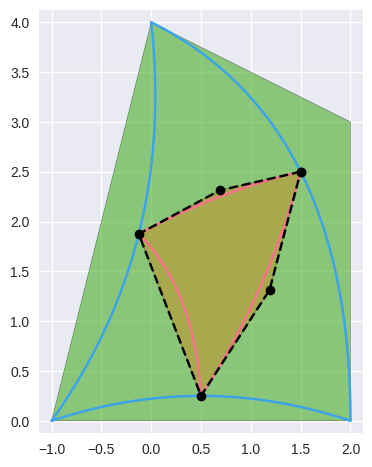
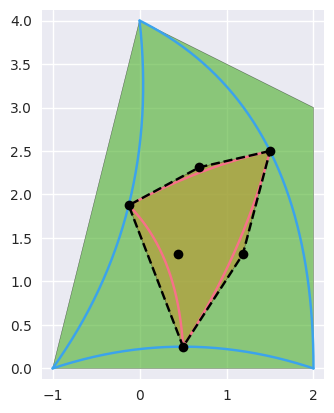
General docs / config maintenance.
Most of the changes occurred when I was reviewing the rendered
docs for Surface and Curve (while editing `paper.md`).

Among the changes:

- Setting a `dev` release in `setup.py`
- Updating `surface_subdivide2.png` to include all 6 control points
  rather than just the 5 that determine the control polygon
- Updating `make_surface_surface_images.py` to use the newer
  attribute name from `SurfaceIntersectionsInfo`
- Using `surface(1|2)` aliases in `test_surface_surface.py`
- Adding spaces in "to / from" (vs. "to/from")
- Adding a note about how our data layout for Surface control
  points can be converted from an index triple to the
  linear index

diff --git a/src/bezier/surface.py b/src/bezier/surface.py
@@ -137,6 +137,16 @@ class Surface(_base.Base):
 
        and so on.
 
+       The index formula
+
+       .. math::
+
+          j + \frac{k}{2} \left(2 (i + j) + k + 3\right)
+
+       can be used to map a triple :math:`(i, j, k)` onto the
+       corresponding linear index, but it is not particularly insightful
+       or useful.
+
     .. image:: ../images/surface_constructor.png
        :align: center
 
@@ -823,7 +833,7 @@ class Surface(_base.Base):
         .. image:: ../images/surface_subdivide1.png
            :align: center
 
-        Then the surface is re-parameterized via the map to/from the
+        Then the surface is re-parameterized via the map to / from the
         given sub-triangles and the unit triangle.
 
         For example, when a degree two surface is subdivided:

diff --git a/docs/make_images.py b/docs/make_images.py
@@ -531,7 +531,13 @@ def surface_subdivide2(surface, sub_surface_b):
 
     # Add the control points polygon for the sub-surface.
     nodes = sub_surface_b._nodes[(0, 1, 2, 5, 3, 0), :]
-    add_patch(ax, nodes, colors[1])
+    add_patch(ax, nodes, colors[1], with_nodes=False)
+
+    # Plot **all** the nodes.
+    sub_nodes = sub_surface_b._nodes
+    ax.plot(sub_nodes[:, 0], sub_nodes[:, 1], color='black',
+            linestyle='None', marker='o')
+
     # Take those same points and add the boundary.
     ax.plot(nodes[:, 0], nodes[:, 1],
             color='black', linestyle='dashed')

diff --git a/functional_tests/test_surface_surface.py b/functional_tests/test_surface_surface.py
@@ -197,8 +197,8 @@ def test_intersect(strategy, intersection_info):
     else:
         context = runtime_utils.no_op_manager()
 
-    surface1 = intersection_info.surface1_info.surface
-    surface2 = intersection_info.surface2_info.surface
+    surface1 = intersection_info.surface1
+    surface2 = intersection_info.surface2
     with context:
         surface_surface_check(
             strategy, surface1, surface2,

diff --git a/functional_tests/make_surface_surface_images.py b/functional_tests/make_surface_surface_images.py
@@ -52,7 +52,7 @@ def make_plot(intersection_info, save_plot):
     surface2.plot(64, ax=ax)
 
     color = None
-    for curved_polygon_info in intersection_info.intersection_infos:
+    for curved_polygon_info in intersection_info.intersections:
         curved_polygon = make_curved_polygon(
             surface1, surface2, curved_polygon_info)
         curved_polygon.plot(64, color=color, ax=ax)

diff --git a/setup.py b/setup.py
@@ -22,7 +22,7 @@ import sys
 import setuptools
 
 
-VERSION = '0.4.0'  # Also in codemeta.json
+VERSION = '0.4.0.dev1'  # Also in codemeta.json
 PACKAGE_ROOT = os.path.abspath(os.path.dirname(__file__))
 
 with open(os.path.join(PACKAGE_ROOT, 'README.rst.template')) as file_obj:
